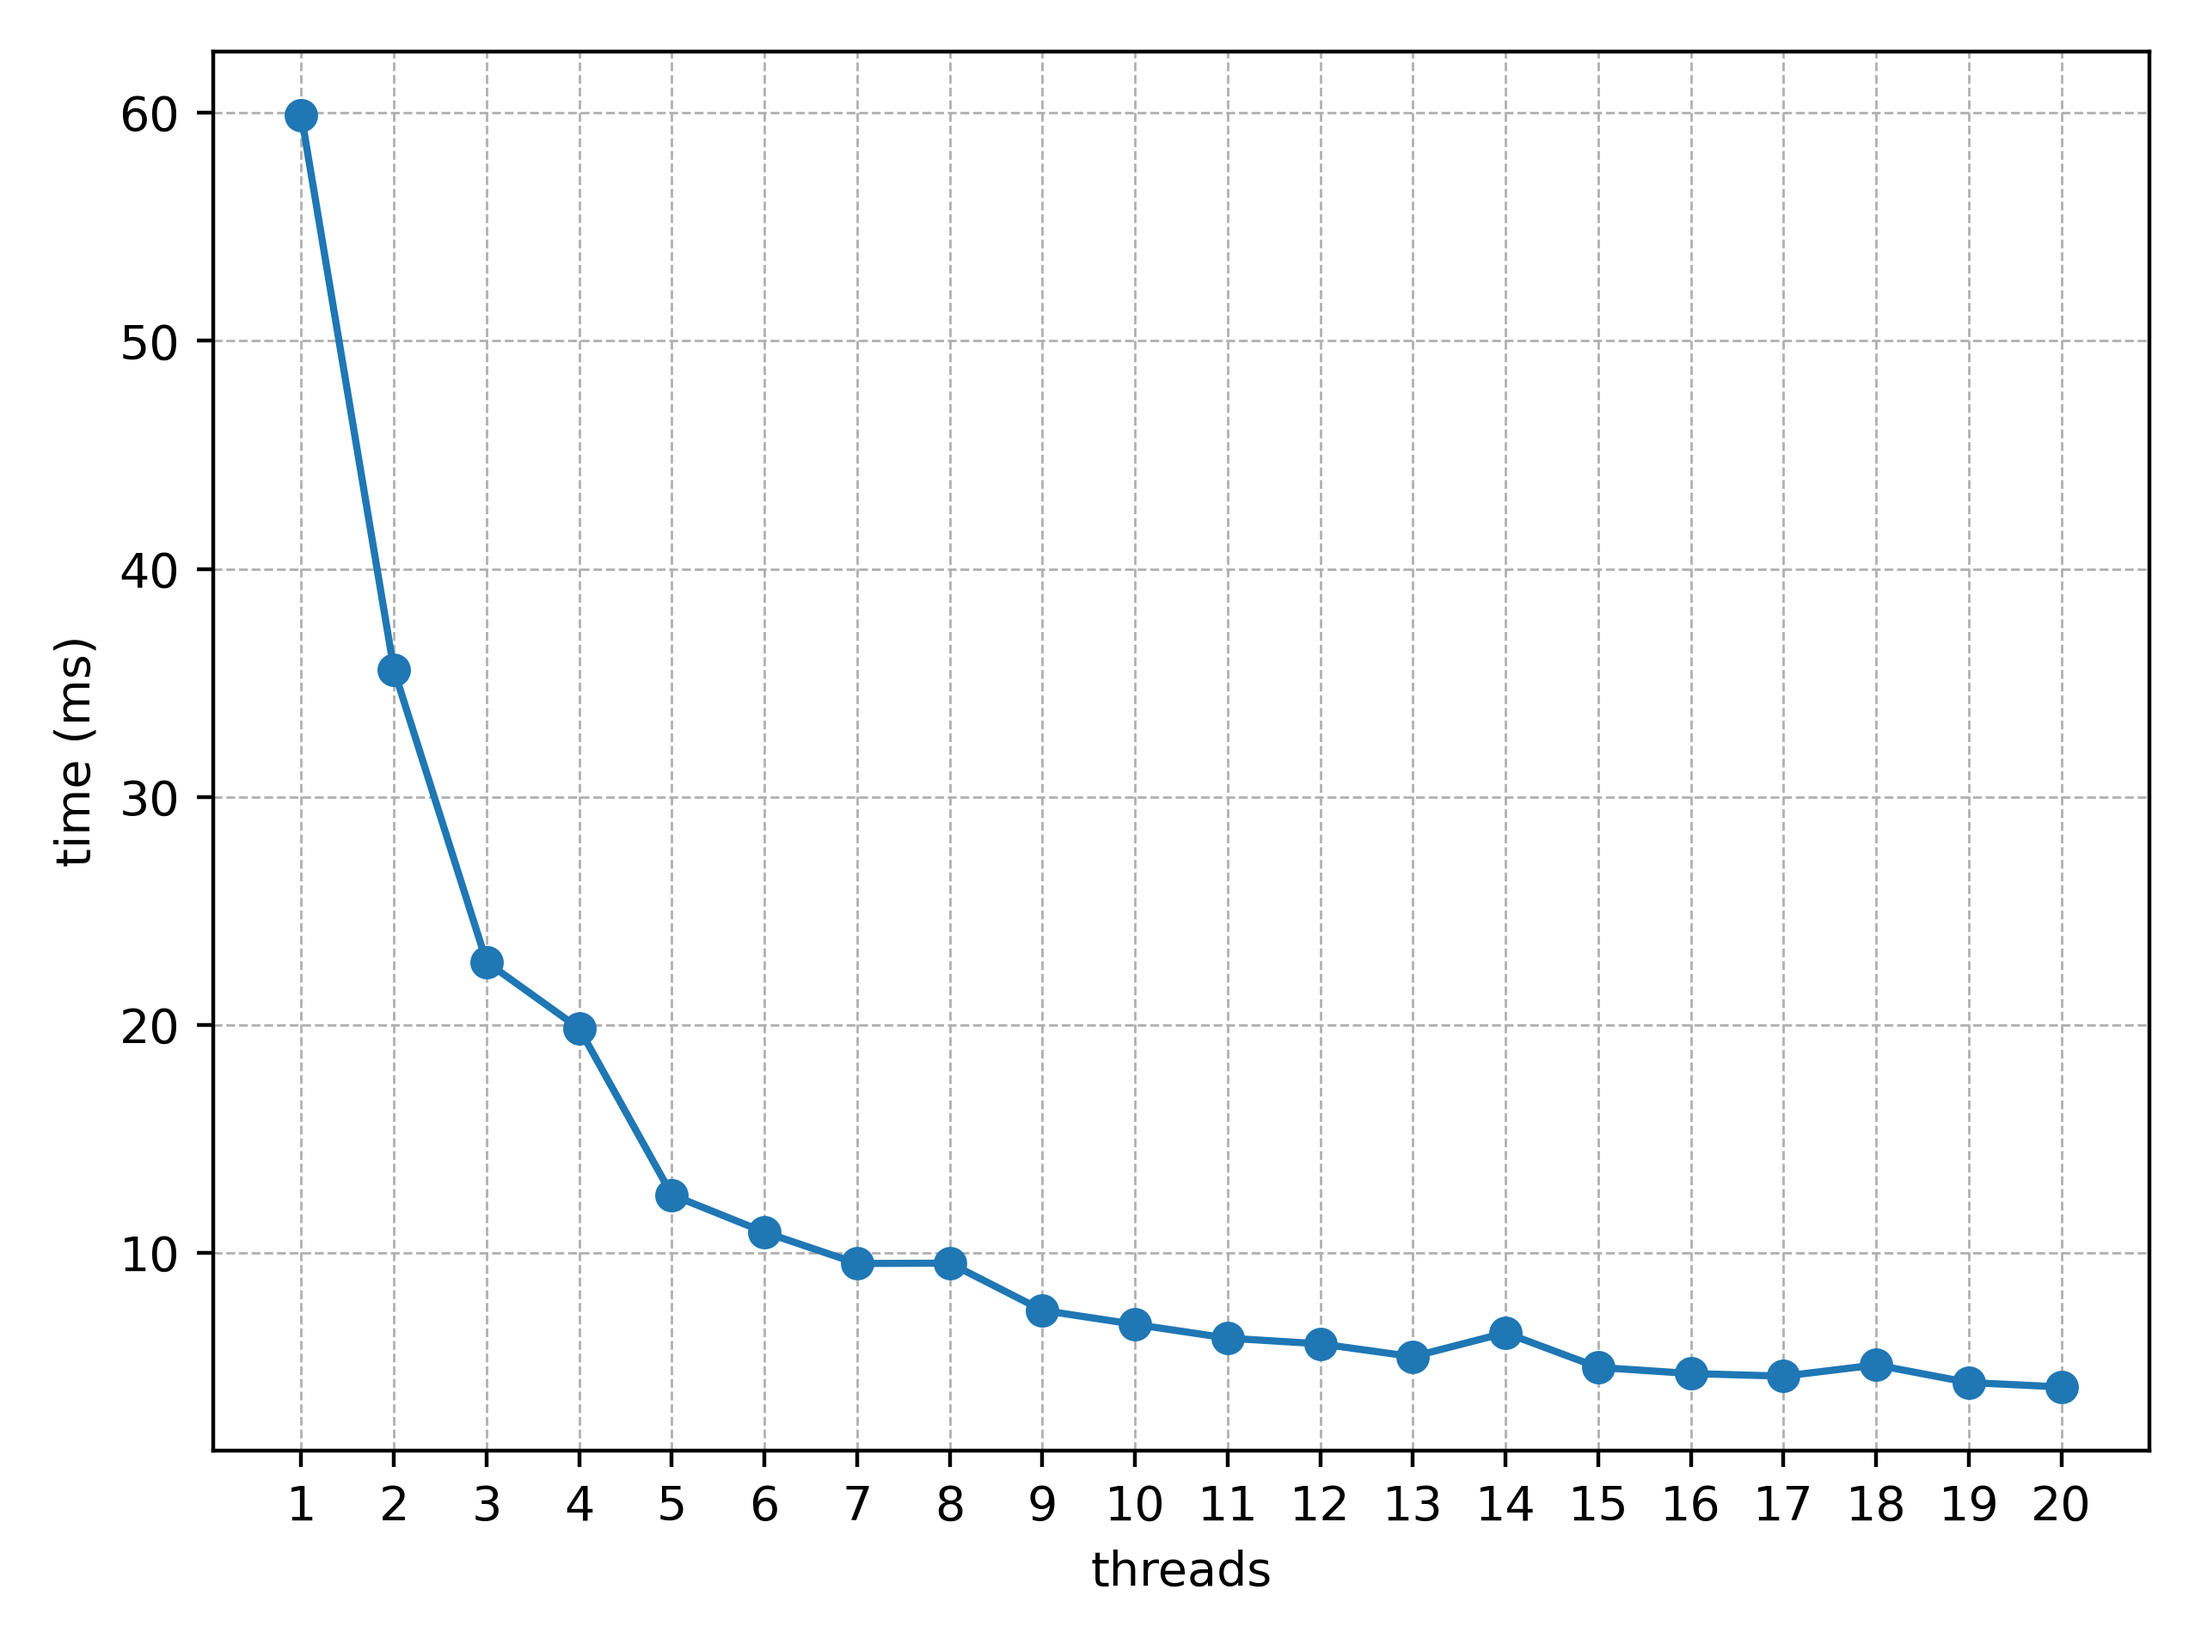
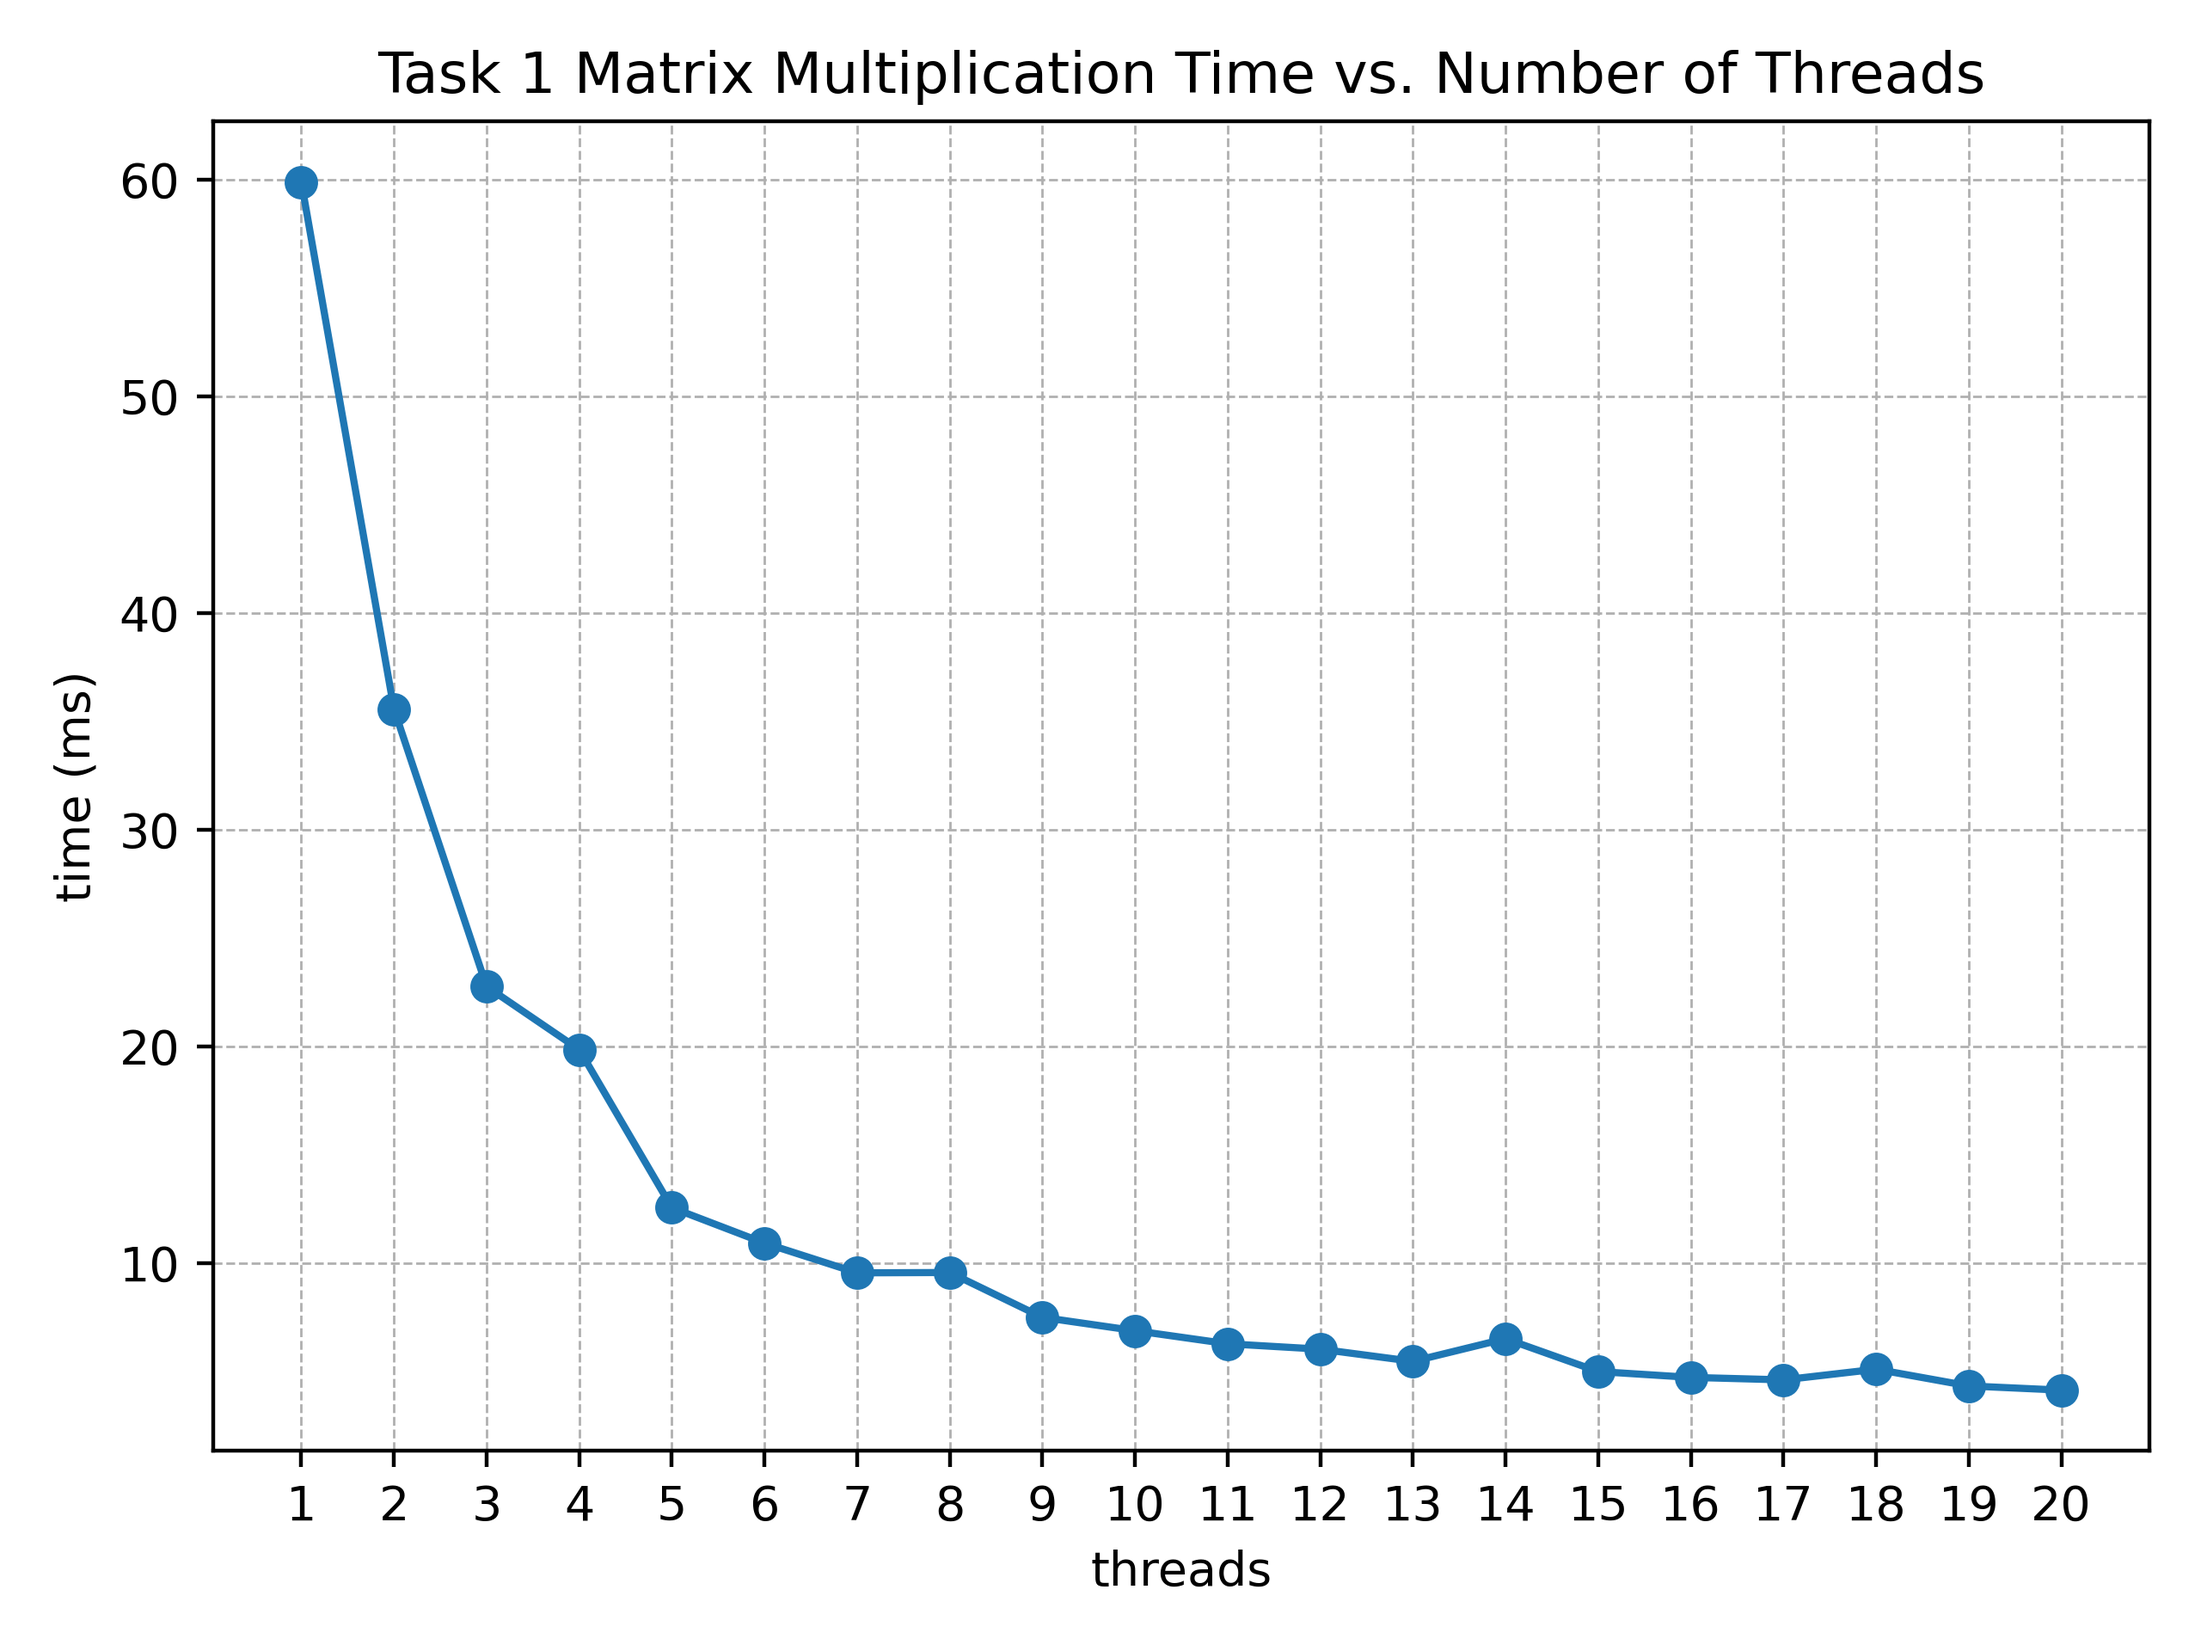
fix

diff --git a/HW08/task1.py b/HW08/task1.py
@@ -10,7 +10,7 @@ plt.plot(i, t, marker='o')
 
 plt.grid(True, which="both", ls="--", lw=0.5)
 
-plt.title("")
+plt.title("Task 1 Matrix Multiplication Time vs. Number of Threads")
 plt.xlabel("threads")
 plt.ylabel("time (ms)")
 plt.xticks(i, [fr"{k}" for k in i])
